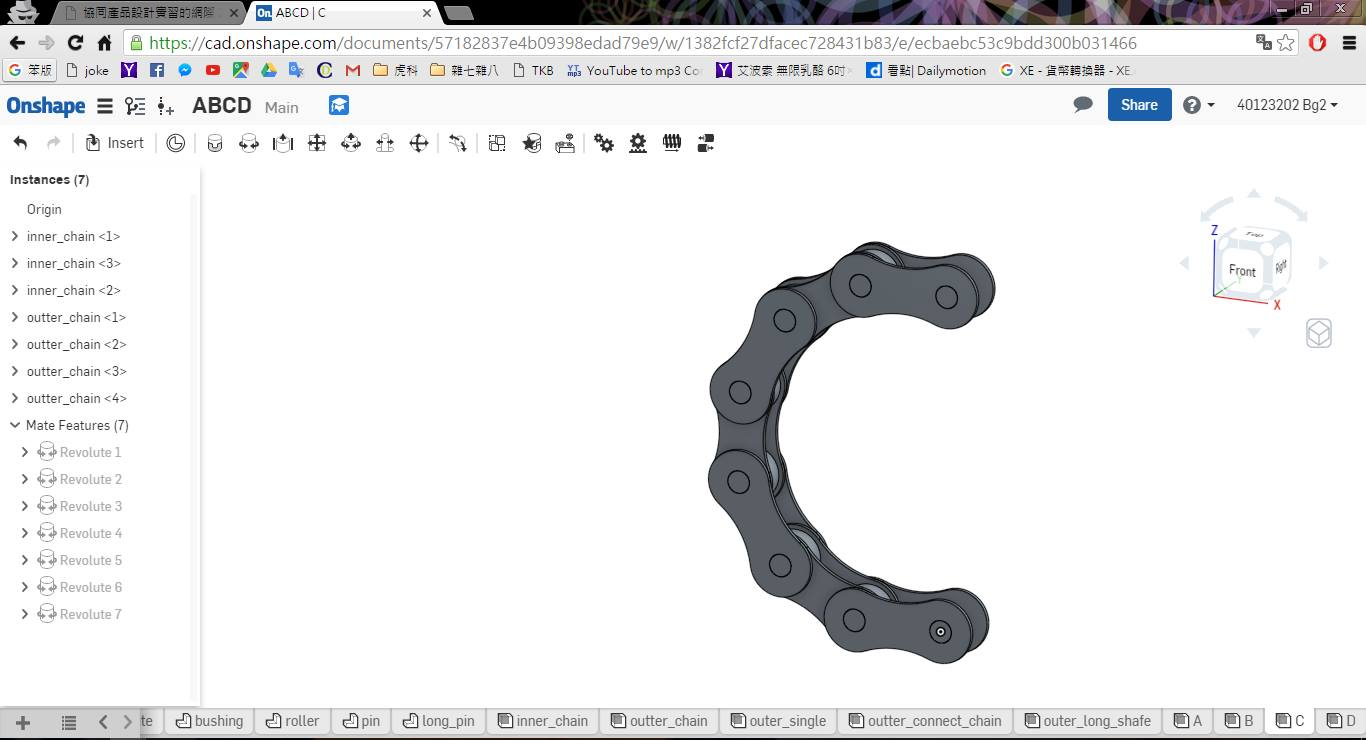
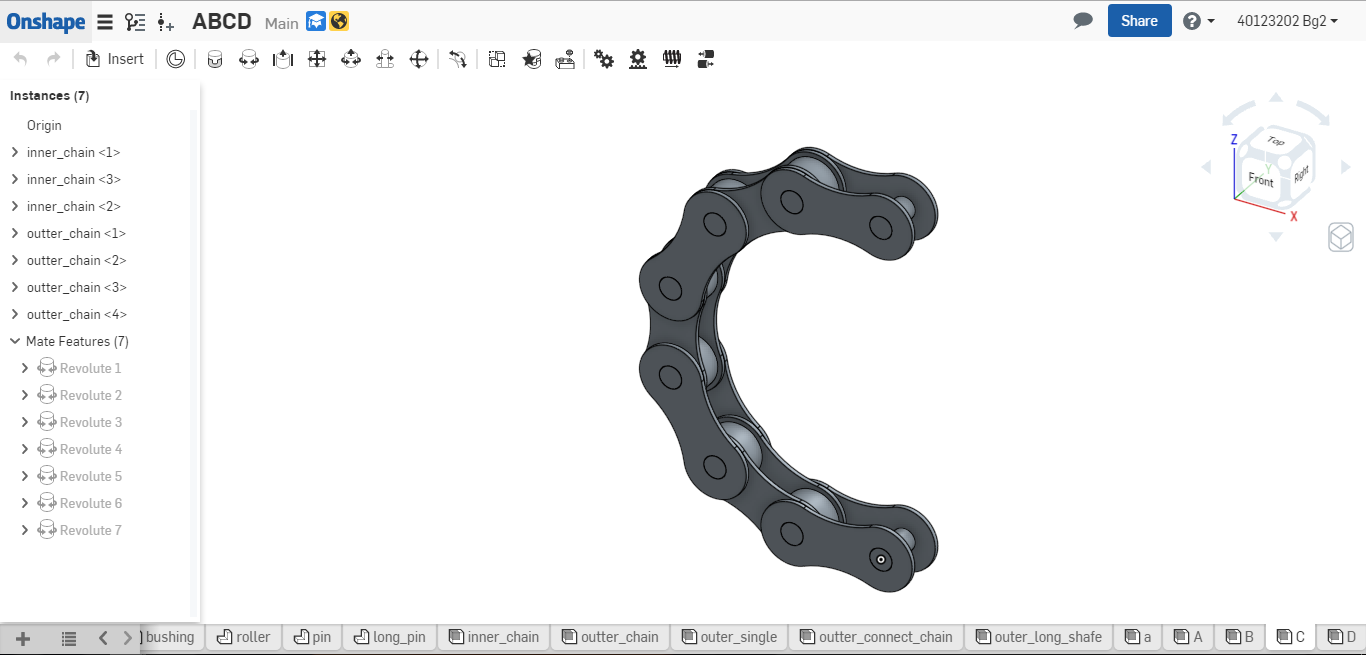
add G2 photo

diff --git a/content/bg2/40123202_2.md b/content/bg2/40123202_2.md
@@ -8,9 +8,11 @@ Author: 40123202
 
 <!-- PELICAN_END_SUMMARY -->
 
-<h2>自評分數:85
+自評分數85
 
-md檔:從2015fallhwfork cdw2並且git clone下來切換分支到 gh-pages,在content目錄下新增組別資料夾
+期中報告操作流程：
+
+md檔從2015fallhwfork cdw2並且git clone下來切換分支到 gh-pages,在content目錄下新增組別資料夾
 
 <img src="./../files/bg2/1.png">
 
@@ -18,7 +20,8 @@ md檔:從2015fallhwfork cdw2並且git clone下來切換分支到 gh-pages,在con
 
 <img src="./../files/bg2/2.png">
 
-<h2>繪製2D-ABCD
+繪製2D-ABCD
+
 繪製自己負責的部分，需在master分支下執行,需先在myflaskapp.py註冊各組組員的檔案如圖所示
 
 <img src="./../files/bg2/3.png">
@@ -27,9 +30,7 @@ md檔:從2015fallhwfork cdw2並且git clone下來切換分支到 gh-pages,在con
 
 <img src="./../files/bg2/9.png">
 
-繪圖程式採用老師給的scrum1及scrum2,scrum1放在組別leo裡作為統組所有組員
-
-scum2的內容所用
+繪圖程式採用老師給的scrum1及scrum2,scrum1放在組別leo裡作為統組所有組員scum2的內容所用
 
 <img src="./../files/bg2/5.png">
 
@@ -45,13 +46,24 @@ scum2的內容所用
 
 近端測試完後即可推上openshift的遠端網頁:<a href="http://cdw2-cadp13ag35.rhcloud.com/g2/scrum1_task40123235">bg2-openshift</a> 
 
-<h2>個人ABCD畫布
+個人ABCD畫布
 
-<img src="./../files/bg2/ABCD.png">
+<img src="./../files/bg2/40123202.PNG">
 
-<h2>Onshape繪製3D鍊條組立ABCD
-Onshape:<a href="https://cad.onshape.com/documents/57182837e4b09398edad79e9">3D鏈條組立</a> 
-<img src="./../files/bg2/3D-A.png">
+Onshape繪製3D鍊條組立ABCD
+
+<a href="https://cad.onshape.com/documents/57182837e4b09398edad79e9">Onshape3D鏈條組立</a> 
+
+<img src="./../files/bg2/3D-A.PNG">
+
 <img src="./../files/bg2/3D-B.png">
+
 <img src="./../files/bg2/3D-C.png">
+
 <img src="./../files/bg2/3D-D.png">
+
+
+心得：
+
+　　在onshape的操作上因為是第一次接觸，所以研究了一下，雖然可能不是最正確的方法，但也是盡力組立了ABCD。
+　　2D組立則是抓準點的座標才會變得比較容易一些，協同組立有點難。
